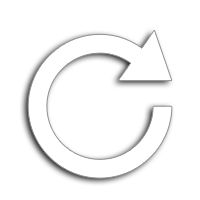
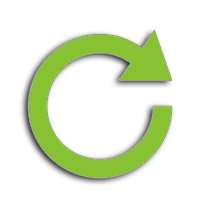
Visual re-work, added a tip on finding the server_log.txt, added functionality to select (and remember) which player is user, "cacheing" the player info to avoid re-fetching it some, added initial player specific data, win loss w/ that player.

Changed region(s): [[0.12, 0.15, 0.87, 0.9]]

diff --git a/renderer.js b/renderer.js
@@ -10,15 +10,65 @@ const shell = require('electron').shell;
 const RANKS = ["Herald", "Guardian", "Crusader", "Archon", "Legend", "Ancient", "Divine"];
 const NO_AVATAR_IMG = "https://steamcdn-a.akamaihd.net/steamcommunity/public/images/avatars/fe/fef49e7fa7e1997310d705b2a6158ff8dc1cdfeb_full.jpg";
 
+let activePlayer = "";
 resetGame();
 
 function resetGame(){
   ipc.send('newLog');
 }
 
+ipc.on('currentPlayer', function(event, playerID) {
+  activePlayer = playerID;
+});
+
 ipc.on('updatedMatches', function (event, games) {
   buildMatch(games[games.length - 1]);
 })
+
+ipc.on('selectPlayer', function(event){
+  var players = document.getElementsByClassName("player");
+  for (var i = 0; i < players.length; i++) {
+    players[i].addEventListener('click', selectUser, false);
+    players[i].removeEventListener('click', showPlayer, false);
+    players[i].classList.add("fade-out");
+  }
+})
+
+function selectUser(){
+  ipc.send('updatePlayer', this.id);
+  clickToShowPlayer();
+}
+
+function showPlayer() {
+  if(activePlayer != "") {
+    return window.fetch(`https://api.opendota.com/api/players/${activePlayer}/wl?included_account_id=${this.id}`, {method: 'get'})
+        .then((response) => response.json())
+        .then((data) => buildPlayerCard(data, this.id)
+    )
+  }
+}
+
+function buildPlayerCard (data, id){
+  curMatch = JSON.parse(localStorage.getItem("data"));
+  fp = document.getElementById("featured-player");
+  featuredPlayer = "";
+  for (let i in curMatch) {
+    if(curMatch[i].id == id){
+      featuredPlayer = curMatch[i];
+    }
+  }
+  fp.onclick = function() {shell.openExternal("https://www.opendota.com/players/" + id)};
+  fp.style.opacity = 1;
+  fp.innerHTML = `You have ${data.win} wins and ${data.lose} losses with ${featuredPlayer.name} in the game`;
+}
+function clickToShowPlayer() {
+  var players = document.getElementsByClassName("player");
+  for (var i = 0; i < players.length; i++) {
+    players[i].addEventListener('click', showPlayer, false);
+    players[i].removeEventListener('click', selectUser, false);
+    players[i].classList.remove("fade-out");
+  }
+}
 
 function buildMatch(matchInfo) {
   //make api calls to get data for all players
@@ -42,8 +92,9 @@ function buildMatch(matchInfo) {
       match.players.push(data);
       if (match.players.length > 9) {
         var html = template(match);
+        localStorage.setItem("data", JSON.stringify(match.players));
         document.getElementById("game").innerHTML = html;
-        playerProfileLinks();
+        clickToShowPlayer();
       }
     })
   }
@@ -72,9 +123,7 @@ function buildPlayer(playerInfo, slotNum){
     if (playerObj.rank_tier != null ) {
       rankStuff = getRank(playerObj.rank_tier);
       if(playerObj.leaderboard_rank != null) {
-        playerData.rank = "Rank: " + playerObj.leaderboard_rank;
-      } else {
-        playerData.rank = rankStuff[0];
+        playerData.rank = playerObj.leaderboard_rank;
       }
       playerData.rank_icon = "./assets/images/rank_icons/" + rankStuff[1];
       if (rankStuff[2] != 0 ){
@@ -82,7 +131,7 @@ function buildPlayer(playerInfo, slotNum){
       }
     } else {
       if (playerObj.mmr_estimate.estimate != undefined ){
-        playerData.rank = "MMR Estimate " + playerObj.mmr_estimate.estimate;
+        playerData.rank = "~" + playerObj.mmr_estimate.estimate +  " MMR";
       } else{
         playerData.rank = "Unknown"
       }
@@ -108,16 +157,16 @@ function getRank(rankNum){
   return rank;
 }
 
-function playerProfileLinks() {
-  let playerDivs = document.getElementsByClassName("player");
-  for (var i = 0; i < playerDivs.length; i++) {
-    if (playerDivs[i].id){
-      let id = playerDivs[i].id;
-      playerDivs[i].onclick = function() {addOnclicks(id)};
-    }
-  }
-}
-
-function addOnclicks(playerID){
-  shell.openExternal("https://www.opendota.com/players/" + playerID);
-}
+// function playerProfileLinks() {
+//   let playerDivs = document.getElementsByClassName("player");
+//   for (var i = 0; i < playerDivs.length; i++) {
+//     if (playerDivs[i].id){
+//       let id = playerDivs[i].id;
+//       playerDivs[i].onclick = function() {showMore(id)};
+//     }
+//   }
+// }
+//
+// function addOnclicks(playerID){
+//   shell.openExternal("https://www.opendota.com/players/" + playerID);
+// }

diff --git a/style.css b/style.css
@@ -1,28 +1,25 @@
 body {
   color: #dddddd;
-  background: linear-gradient(#114716, #471125);
   font-family: "Lucida Grande", Tahoma, Verdana, Arial, sans-serif;
   overflow: hidden;
   margin-bottom: 50px;
-  background-image: url('./assets/images/bg.jpg');
-  background-size: cover;
+  /* background-image: url('./assets/images/bg.jpg');
+  background-size: cover; */
+  background-color: #222629;
 }
 
 .team{
   display: flex;
-  height: 290px;
+  flex-direction: column;
 }
 
 .player {
-  margin: 10px;
-  padding: 10px;
+  margin: 5px;
   position: relative;
-  box-shadow: 0 1px 3px rgba(0,0,0,0.12), 0 1px 2px rgba(0,0,0,0.24);
+  box-shadow: 0 1px 3px rgba(0,0,0,0.24), 0 1px 2px rgba(0,0,0,0.48);
   transition: all 0.3s cubic-bezier(.25,.8,.25,1);
-  align-self: stretch;
-  flex-basis: 20%;
-  flex-grow: 1;
-  background-color: rgba(100,100,100, .7);
+  background-color: #6B6E70;
+  border-radius: 8px;
 }
 
 .player:hover {
@@ -34,27 +31,38 @@ body {
   font-size: 15px;
   font-weight: bold;
   vertical-align: top;
-  width: 100%;
+  margin: 5px;
+  margin-bottom: 0;
+  padding: 8px;
   text-align: center;
+  overflow: hidden;
+  background-color: #474B4F;
+  border-radius: 8px;
+  white-space: nowrap;
+  overflow: hidden;
+  width: 175px;
+  text-overflow: ellipsis;
 }
 
 .player-rank {
   font-size: 12px;
-  width: 100%;
   text-align: center;
+  margin-top: -23px;
+  margin-bottom: 0;
 }
 
 .player-avatar {
-  height: 100px;
+  height: 75px;
   display: block;
-  margin: auto;
-  clip-path: circle(50px at center);
+  border-radius: 8px;
+  margin: 5px;
+  float: left;
 }
 
 .side {
   width: 100%;
   text-align: center;
-  color: white;
+  color: #61892F;
   text-shadow: black 0px 0px 10px;
 }
 
@@ -65,10 +73,11 @@ h2 {
 }
 
 .rank  {
-  width: 80px;
   display: block;
-  margin: auto;
-  margin-top: -15px;
+  float: right;
+  margin: 5px;
+  position: relative;
+  width: 75px;
 }
 
 .player-rank-icon {
@@ -78,6 +87,39 @@ h2 {
 .player-rank-stars{
   width: 100%;
   margin-top: -15px;
+  position: absolute;
+}
+
+.fade-out {
+  opacity: .4;
+  transition: all .5s;
+}
+
+.fade-out:hover {
+  opacity: 1;
+  box-shadow: 0px 0px 20px #fff;
+}
+
+#featured-player {
+  position: fixed;
+  left: 50%;
+  width: 300px;
+  top: 50%;
+  height: 500px;
+  margin-left: -150px;
+  padding: 10px;
+  border-radius: 8px;
+  background-color: #6B6E70;
+  opacity: 0;
+  transition: opacity .5s;
+}
+
+#dire {
+  float: right;
+}
+
+#radiant {
+  float: left;
 }
 
 #reset{

diff --git a/index.html b/index.html
@@ -10,39 +10,42 @@
     <div id="game"></div>
     <script id="entry-template" type="text/x-handlebars-template">
       <div class='main'>
-        <h2 class="side">Radiant</h2>
         <div class="team" id="radiant">
+          <h2 class="side">Radiant</h2>
           {{#each players}}
             {{#if side}}
             <div class="player" id="{{this.id}}">
-              <img src="{{this.avatar}}" alt="" class="player-avatar">
               <p class="player-name">{{this.name}}</p>
-              <p class="player-rank" >{{this.rank}}</p>
+              <img src="{{this.avatar}}" alt="" class="player-avatar">
               <div class="rank">
                 <img src="{{rank_icon}}" alt="" class="player-rank-icon">
                 {{#if rank_stars}}
                   <img src="{{rank_stars}}" alt="" class="player-rank-stars">
                 {{/if}}
+                <p class="player-rank" >{{this.rank}}</p>
               </div>
             </div>
             {{/if}}
           {{/each}}
         </div>
-        <h2 class="side">Dire</h2>
+        <div id="featured-player">
+
+        </div>
         <div class="team" id="dire">
+          <h2 class="side">Dire</h2>
           {{#each players}}
             {{#unless side}}
-            <div class="player" id="{{this.id}}">
-              <img src="{{this.avatar}}" alt="" class="player-avatar">
-              <p class="player-name">{{this.name}}</p>
-              <p class="player-rank" >{{this.rank}}</p>
-              <div class="rank">
-                <img src="{{rank_icon}}" alt="" class="player-rank-icon">
-                {{#if rank_stars}}
-                  <img src="{{rank_stars}}" alt="" class="player-rank-stars">
-                {{/if}}
+              <div class="player" id="{{this.id}}">
+                <p class="player-name">{{this.name}}</p>
+                <img src="{{this.avatar}}" alt="" class="player-avatar">
+                <div class="rank">
+                  <img src="{{rank_icon}}" alt="" class="player-rank-icon">
+                  {{#if rank_stars}}
+                    <img src="{{rank_stars}}" alt="" class="player-rank-stars">
+                  {{/if}}
+                  <p class="player-rank" >{{this.rank}}</p>
+                </div>
               </div>
-            </div>
             {{/unless}}
           {{/each}}
         </div>

diff --git a/main.js b/main.js
@@ -17,13 +17,19 @@ app.on('ready', () => {
     show: false,
     resizable: false,
     width: 1000,
-    height: 720,
+    height: 735,
     icon: path.join(__dirname, 'icon_64x64.png')
   });
   mainWindow.loadURL(path.join('file://', __dirname, 'index.html'));
   setMainMenu(mainWindow);
   setStorage(mainWindow);
   mainWindow.on('ready-to-show', () => {
+    storage.get('currentUser', function(error, data) {
+      if (error){ throw error;}
+      if(data.hasOwnProperty("player")){
+        mainWindow.webContents.send('currentPlayer', data.player);
+      }
+    });
     mainWindow.show();
   });
   mainWindow.on('closed', () => {
@@ -31,8 +37,21 @@ app.on('ready', () => {
   });
 
   ipc.on('newLog', function (event) {
+    storage.get('currentUser', function(error, data) {
+      if (error){ throw error;}
+      if(data.hasOwnProperty("player")){
+        mainWindow.webContents.send('currentPlayer', data.player);
+      }
+    });
     if(typeof mainWindow.serverLog != "undefined"){
       event.sender.send('updatedMatches', parseLog(mainWindow.serverLog.path));
     }
+  })
+
+  ipc.on('updatePlayer', function (event, arg){
+    storage.set('currentUser', {player: arg}, function(error) {
+      if (error) throw error;
+    });
+    mainWindow.webContents.send('currentPlayer', arg);
   })
 });

diff --git a/main-menu.js b/main-menu.js
@@ -15,6 +15,18 @@ function setMainMenu(mainWindow) {
           click() {
             showOpenDialog(mainWindow);
           }
+        },
+        {
+          label: 'Where is server_log.txt?',
+          click() {
+            require('electron').shell.openExternal('https://github.com/BigFancyBen/dotastalk/wiki/Where-to-find-the-server_log.txt');
+          }
+        },
+        {
+          label: 'Which player are you?',
+          click() {
+            mainWindow.webContents.send('selectPlayer');
+          }
         }
       ]
     }

diff --git a/serverlog.js b/serverlog.js
@@ -15,7 +15,6 @@ function showOpenDialog(browserWindow) {
       storage.set('serverLog', { path: filepaths }, function(error) {
         if (error) throw error;
       });
-      console.log(filepaths);
       browserWindow.webContents.send( 'updatedMatches', parseLog(filepaths[0]));
 
       watch(filepaths[0], { recursive: true }, function(event, name) {
